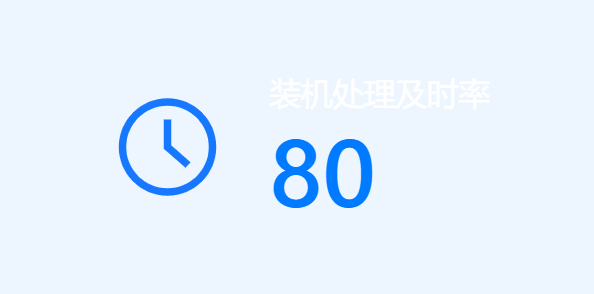
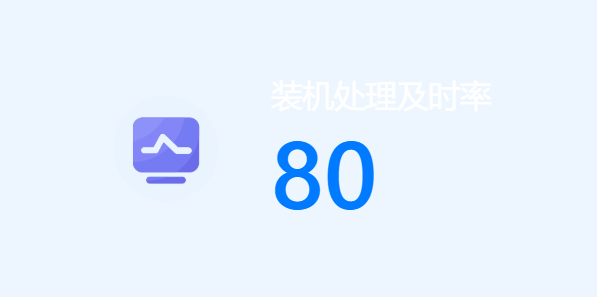
feat:bug修改，新增指标卡组件

diff --git a/data-room-ui/packages/js/utils/getComponentConfig.js b/data-room-ui/packages/js/utils/getComponentConfig.js
@@ -287,27 +287,13 @@ export default function getComponentConfig (type) {
       }
       case 'indicatorCard':
         return {
-          name: '指标卡',
-          title: '指标卡',
+          name: '指标卡一',
+          title: '指标卡一',
           icon: null,
           img: require('data-room-ui/assets/images/cardImg/card.png'),
           className: 'com.gccloud.dataroom.core.module.chart.components.ScreenIndicatorCardChart',
           w: 400,
           h: 170,
-          x: 0,
-          y: 0,
-          type
-      }
-
-      case 'indexCard':
-        return {
-          name: '指标卡一',
-          title: '指标卡一',
-          icon: null,
-          img: require('data-room-ui/assets/images/cardImg/indicard.png'),
-          className: 'com.gccloud.dataroom.core.module.chart.components.ScreenIndexCardChart',
-          w: 400,
-          h: 200,
           x: 0,
           y: 0,
           type
@@ -324,11 +310,24 @@ export default function getComponentConfig (type) {
           x: 0,
           y: 0,
           type
-        }
+      }
+      case 'indexCard':
+        return {
+          name: '指标卡三',
+          title: '指标卡三',
+          icon: null,
+          img: require('data-room-ui/assets/images/cardImg/indicard.png'),
+          className: 'com.gccloud.dataroom.core.module.chart.components.ScreenIndexCardChart',
+          w: 400,
+          h: 200,
+          x: 0,
+          y: 0,
+          type
+      }
         case 'indexCard2':
           return {
-            name: '指标卡三',
-            title: '指标卡三',
+            name: '指标卡四',
+            title: '指标卡四',
             icon: null,
             img: require('data-room-ui/assets/images/cardImg/indcard2.png'),
             className: 'com.gccloud.dataroom.core.module.chart.components.ScreenIndexCardChart',

diff --git a/data-room-ui/packages/Borders/Border14/settingConfig.js b/data-room-ui/packages/Borders/Border14/settingConfig.js
@@ -15,26 +15,26 @@ const customConfig = {
     // 边框线颜色
     borderColor: '#87888e',
     // 边框线宽度
-    borderWidth: 2,
+    borderWidth: 10,
     // 边框背景颜色
     backgroundColor: '#232832',
     colorType: 'single',
     // 渐变色0值
-    gradientColor0: '#83bff6',
+    gradientColor0: '',
     // 渐变色1值
-    gradientColor1: '#188df0',
+    gradientColor1: '',
     // 渐变色色值改变方向
     gradientDirection: 'to right',
     // 透明度
     opacity: 100,
     // 左上圆角
-    radiusLeftTop: 2,
+    radiusLeftTop: 14,
     // 右上圆角
-    radiusRightTop: 2,
+    radiusRightTop: 14,
     // 左下圆角
-    radiusLeftBottom: 2,
+    radiusLeftBottom: 14,
     // 右下圆角
-    radiusRightBottom: 2
+    radiusRightBottom: 14
   }
 }
 export const dataConfig = {

diff --git a/data-room-ui/packages/Borders/Border15/settingConfig.js b/data-room-ui/packages/Borders/Border15/settingConfig.js
@@ -15,14 +15,14 @@ const customConfig = {
     // 边框线颜色
     borderColor: '#87888e',
     // 边框线宽度
-    borderWidth: 2,
+    borderWidth: 10,
     // 边框背景颜色
     backgroundColor: '#232832',
     colorType: 'single',
     // 渐变色0值
-    gradientColor0: '#83bff6',
+    gradientColor0: '',
     // 渐变色1值
-    gradientColor1: '#188df0',
+    gradientColor1: '',
     // 渐变色色值改变方向
     gradientDirection: 'to right',
     // 透明度
@@ -34,7 +34,7 @@ const customConfig = {
     // 字体粗细
     fontWeight: 500,
     // 中心文本
-    text: '文本'
+    text: ''
   }
 }
 export const dataConfig = {

diff --git a/data-room-ui/packages/BigScreenDesign/SettingPanel.vue b/data-room-ui/packages/BigScreenDesign/SettingPanel.vue
@@ -74,7 +74,15 @@ export default {
       return this.rightVisiable && this.activeCode
     },
     title () {
-      return this.activeItem?.title || ''
+      if(this.activeItem.type=='customComponent'){
+        return this.activeItem?.category
+      }else if(this.activeItem.type=='"remoteComponent"'){
+        return this.activeItem?.title
+      }
+      else{
+        return this.activeItem?.name
+      }
+      // if(this.activeItem)
     }
   },
   mounted () { },

diff --git a/data-room-ui/packages/BigScreenDesign/ComponentDialog/index.vue b/data-room-ui/packages/BigScreenDesign/ComponentDialog/index.vue
@@ -43,7 +43,6 @@
                 @keyup.enter.native="reSearch"
               />
               <el-button
-                size="small"
                 type="primary"
                 @click="reSearch"
               >
@@ -167,7 +166,6 @@
                 @keyup.enter.native="reSearch"
               />
               <el-button
-                size="small"
                 type="primary"
                 @click="reSearch"
               >

diff --git a/data-room-ui/packages/BasicComponents/IndexCard/index.vue b/data-room-ui/packages/BasicComponents/IndexCard/index.vue
@@ -22,7 +22,7 @@
             width: customize.imgSize + 'px',
             height: customize.imgSize + 'px',
           }"
-          :src="customize.src"
+          :src="customize.src?customize.src:imgUrl"
           fit="contain"
         />
       </div>
@@ -79,6 +79,7 @@ export default {
   },
   data () {
     return {
+      imgUrl:require('data-room-ui/assets/images/cardImg/cardicon.png'),
       customClass: {}
     }
   },

diff --git a/data-room-ui/packages/BasicComponents/IndexCard2/index.vue b/data-room-ui/packages/BasicComponents/IndexCard2/index.vue
@@ -22,7 +22,7 @@
             width: customize.imgSize + 'px',
             height: customize.imgSize + 'px',
           }"
-          :src="customize.src"
+          :src="customize.src?customize.src:imgUrl"
           fit="contain"
         />
       </div>
@@ -77,6 +77,7 @@ export default {
   },
   data () {
     return {
+      imgUrl:require('data-room-ui/assets/images/cardImg/cardicon.png'),
       customClass: {}
     }
   },

diff --git a/data-room-ui/packages/Decorations/Decoration4/settingConfig.js b/data-room-ui/packages/Decorations/Decoration4/settingConfig.js
@@ -20,8 +20,8 @@ const customConfig = {
     contribution: false
   },
   customize: {
-    decorationColor1: null,
-    decorationColor2: null,
+    decorationColor1: 'rgba(255, 255, 255, 0.3)',
+    decorationColor2: 'rgba(255, 255, 255, 0.3)',
     reverse: false,
     dur: 3,
     scanDur: 3,

diff --git a/data-room-ui/packages/Decorations/Decoration4Reverse/settingConfig.js b/data-room-ui/packages/Decorations/Decoration4Reverse/settingConfig.js
@@ -20,8 +20,8 @@ const customConfig = {
     contribution: false
   },
   customize: {
-    decorationColor1: null,
-    decorationColor2: null,
+    decorationColor1: 'rgba(255, 255, 255, 0.3)',
+    decorationColor2: 'rgba(255, 255, 255, 0.3)',
     reverse: false,
     dur: 3,
     scanDur: 3,

diff --git a/data-room-ui/packages/Decorations/Decoration9/settingConfig.js b/data-room-ui/packages/Decorations/Decoration9/settingConfig.js
@@ -20,8 +20,8 @@ const customConfig = {
     contribution: false
   },
   customize: {
-    decorationColor1: null,
-    decorationColor2: null,
+    decorationColor1: 'rgba(3, 166, 224, 0.8)',
+    decorationColor2: 'rgba(3, 166, 224, 0.5)',
     reverse: false,
     dur: 3,
     scanDur: 3,

diff --git a/data-room-ui/packages/Decorations/Decoration10/settingConfig.js b/data-room-ui/packages/Decorations/Decoration10/settingConfig.js
@@ -20,8 +20,8 @@ const customConfig = {
     contribution: false
   },
   customize: {
-    decorationColor1: null,
-    decorationColor2: null,
+    decorationColor1: '#00c2ff',
+    decorationColor2:'rgba(0, 194, 255, 0.3)' ,
     reverse: false,
     dur: 3,
     scanDur: 3,

diff --git a/data-room-ui/packages/Decorations/Decoration11/settingConfig.js b/data-room-ui/packages/Decorations/Decoration11/settingConfig.js
@@ -20,8 +20,8 @@ const customConfig = {
     contribution: false
   },
   customize: {
-    decorationColor1: null,
-    decorationColor2: null,
+    decorationColor1: '#1a98fc',
+    decorationColor2: '#2cf7fe',
     reverse: false,
     dur: 3,
     scanDur: 3,
